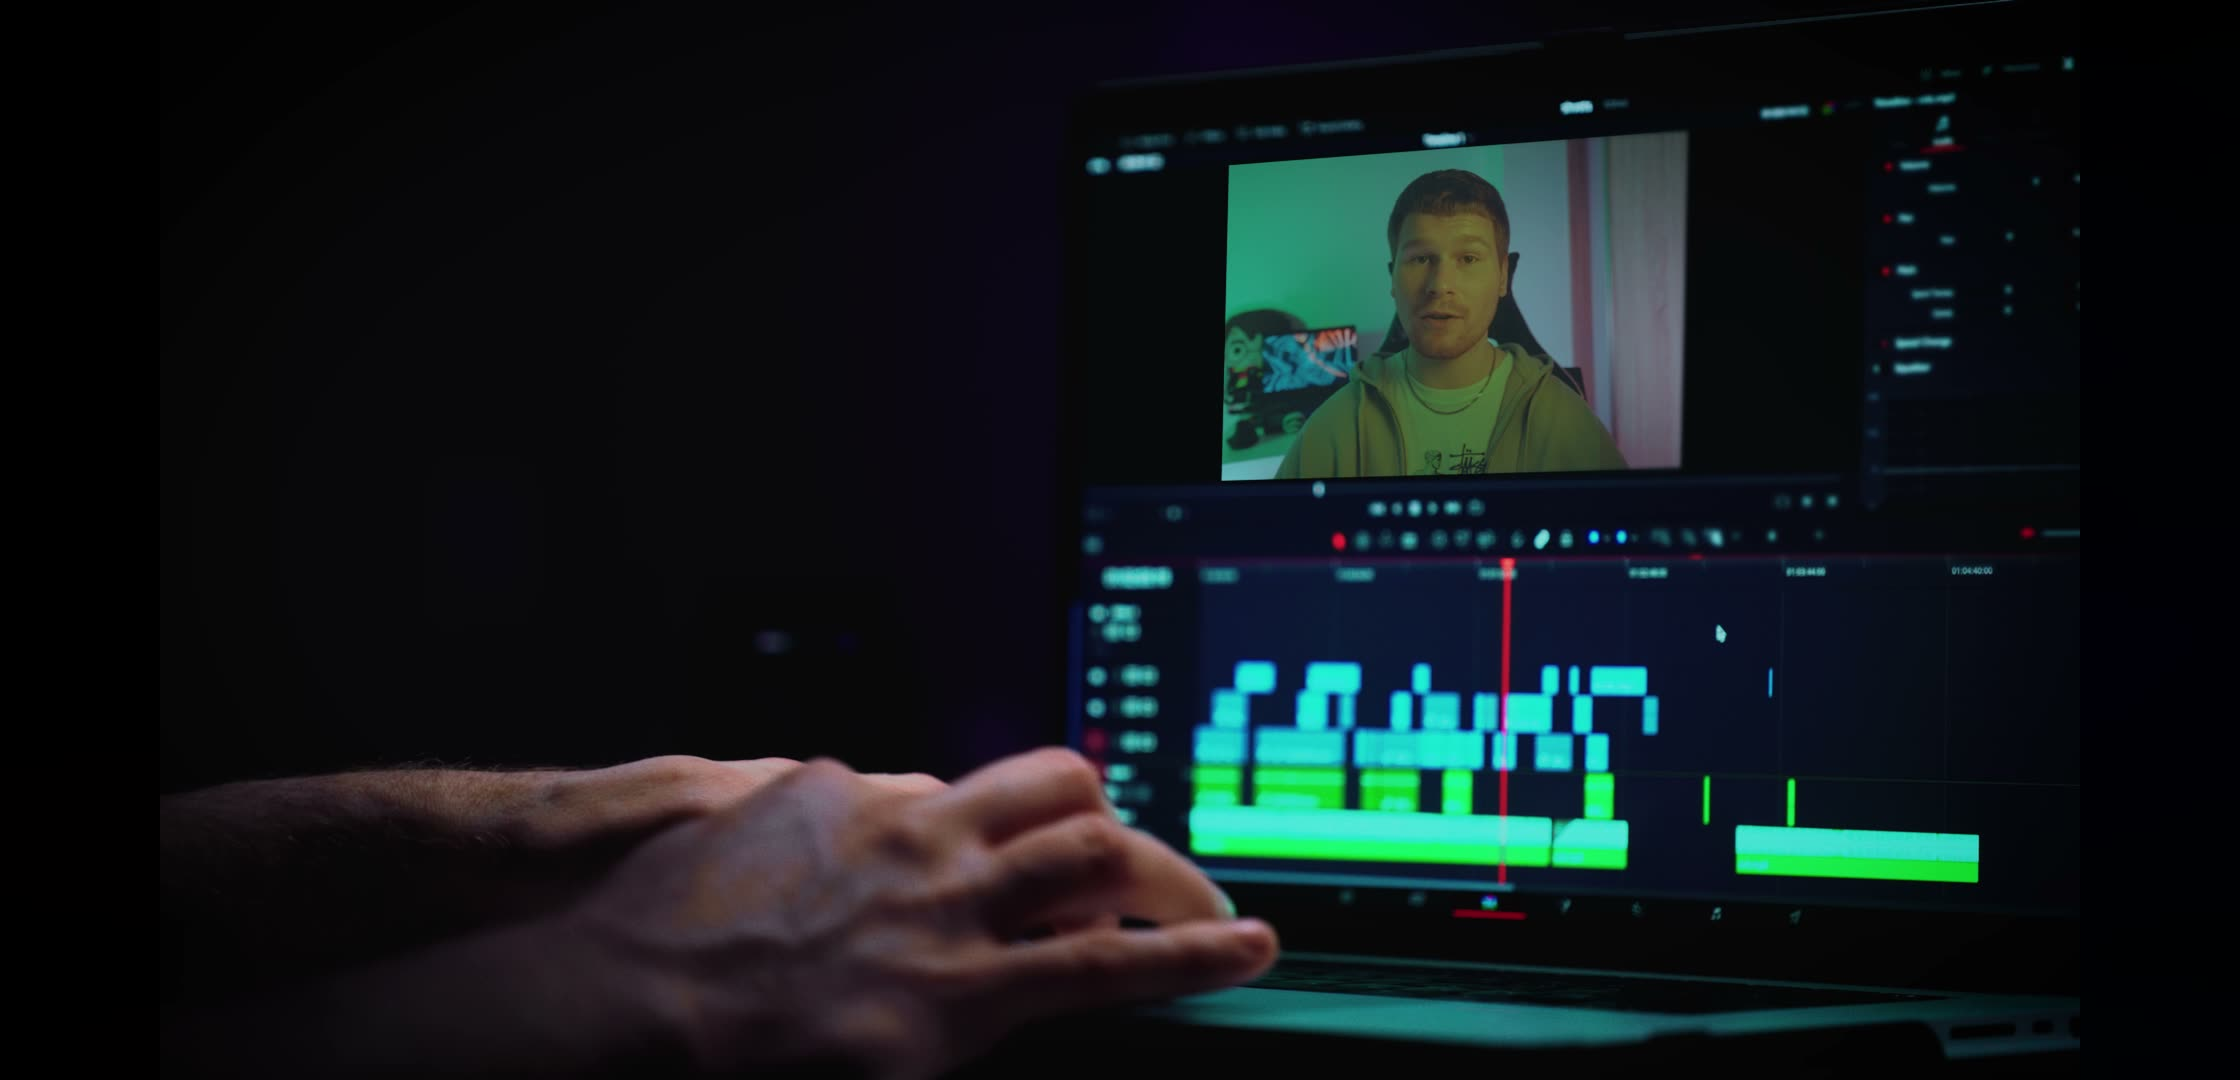
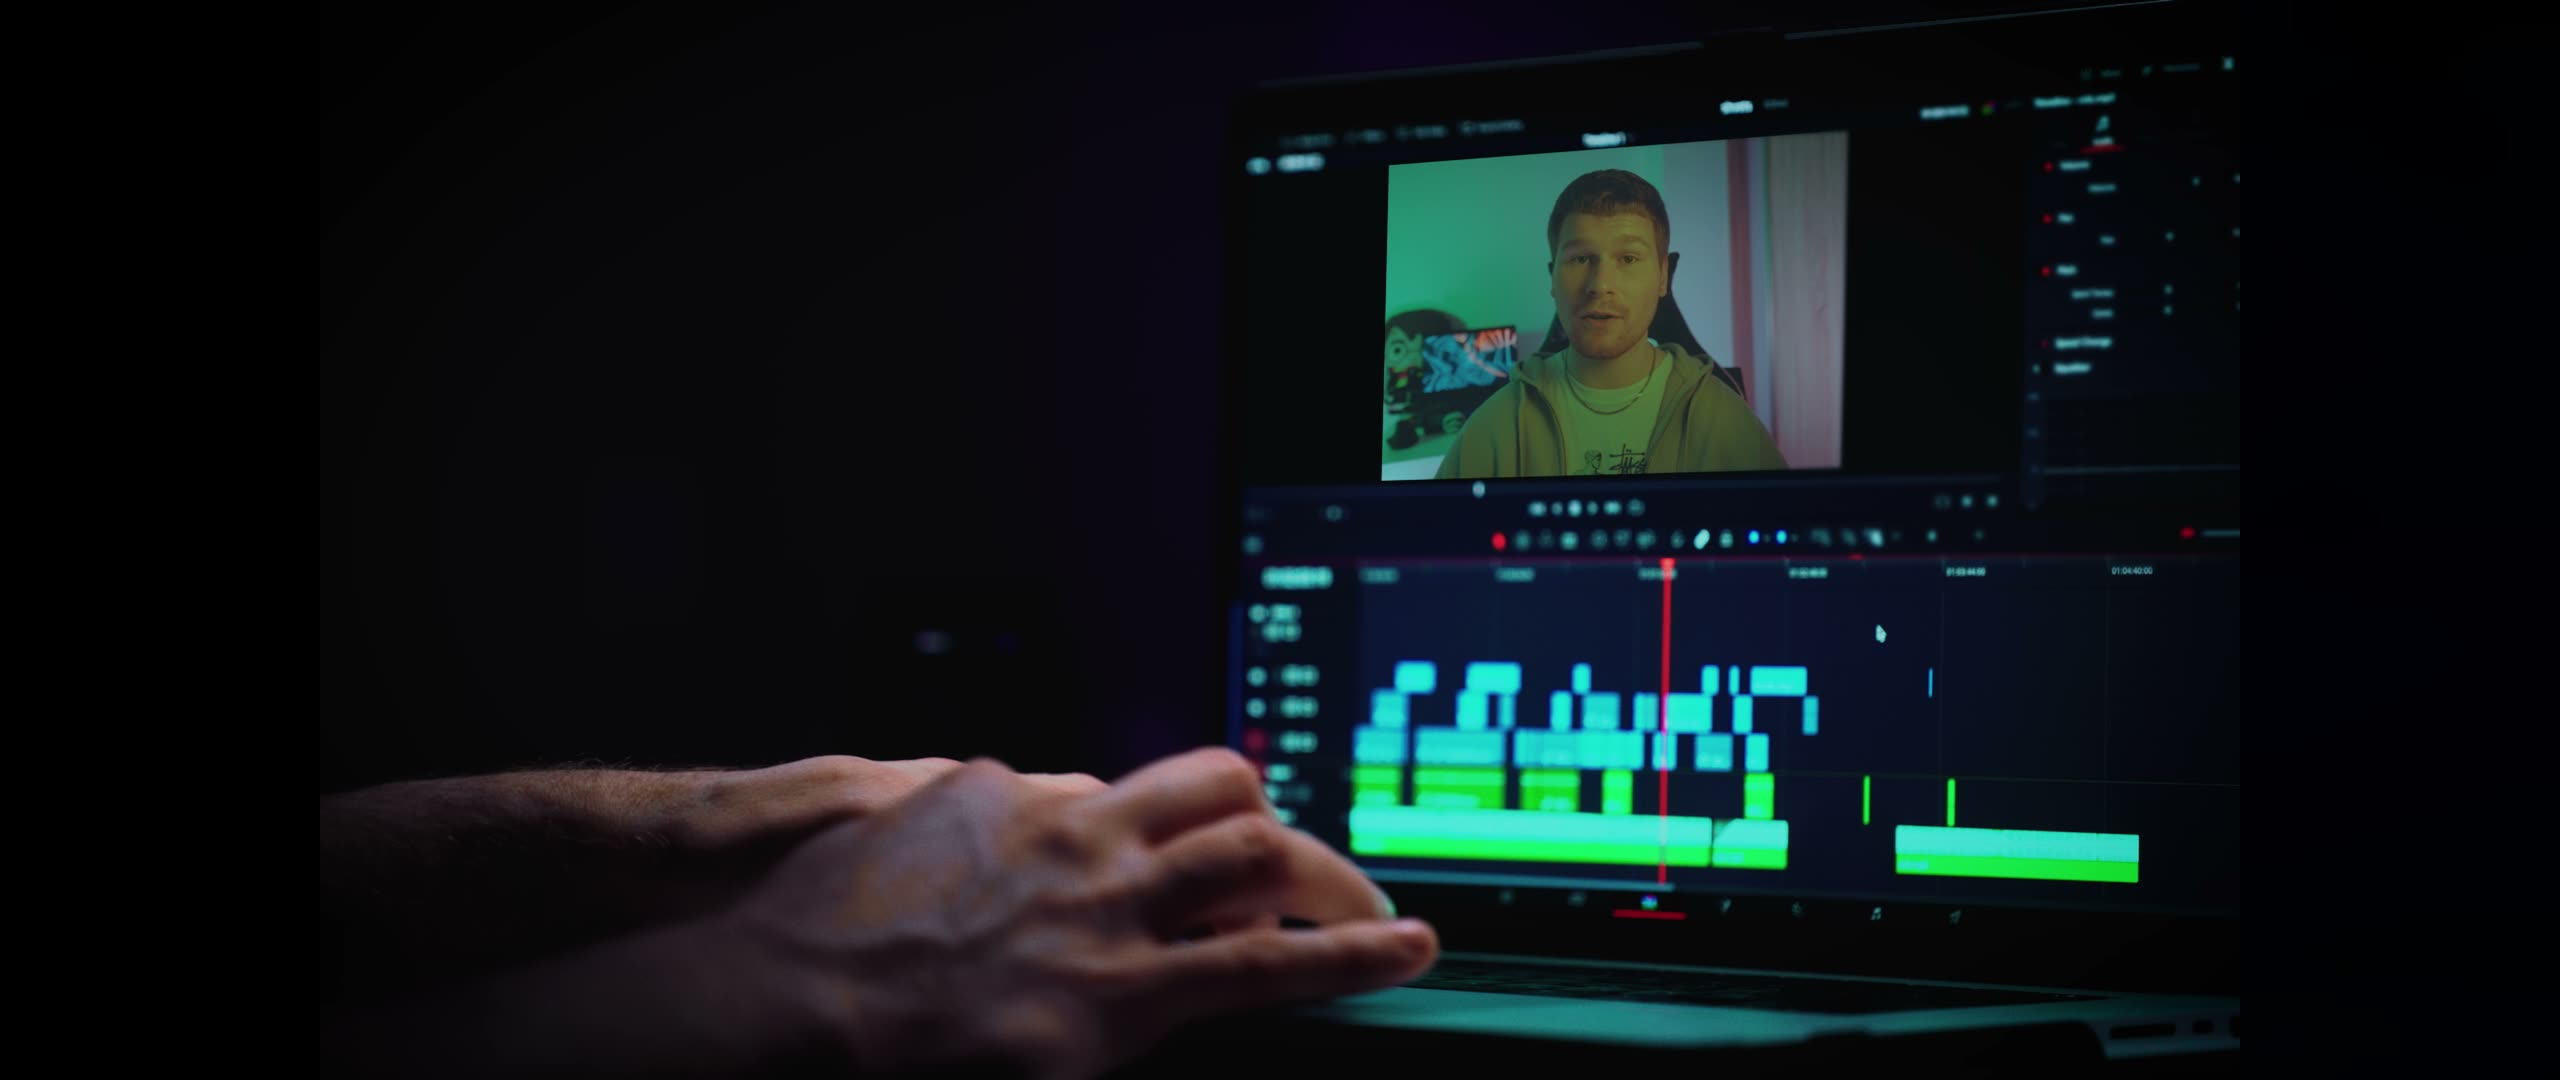
Компьютер: кадр отодвинут ещё
Захар: «я бы ещё чуть больше». Холст с 2240 до 2560×1080 — по 320 px
размытой растяжки с каждой стороны вместо 160. На экране 1920 масштаб
падает с 0,857 до 0,75, сцена целиком, лицо ещё меньше.

Окно на ноутбуке 1440 опущено с 8% до 0%: чем шире холст, тем мельче
картинка в контейнере и тем выше в нём голова — на 8% макушка снова
доставала до плавающей шапки.

Claude-Session: https://claude.ai/code/session_01TK2PBrYq9msPrCxx3Ne5Jh

diff --git a/index.html b/index.html
@@ -3278,7 +3278,7 @@
 
 <style data-kadr-pc>
   @media (min-width: 900px) and (max-width: 1499px) {
-    #hero .pg-foto { object-position: 50% 8%; }
+    #hero .pg-foto { object-position: 50% 0%; }
   }
 </style>
 </head>
@@ -3350,7 +3350,7 @@
 <!-- HERO -->
 <section id="hero" class="pg-hero">
   <div class="pg-gora">
-    <picture><source media="(max-width: 700px)" srcset="hero_montaz_tel.jpg" width="1400" height="2060"><img width="2240" height="1080" class="pg-foto" src="hero_montaz.jpg" alt="Montaż rolki: oś czasu na ekranie" fetchpriority="high"></picture>
+    <picture><source media="(max-width: 700px)" srcset="hero_montaz_tel.jpg" width="1400" height="2060"><img width="2560" height="1080" class="pg-foto" src="hero_montaz.jpg" alt="Montaż rolki: oś czasu na ekranie" fetchpriority="high"></picture>
     <div class="pg-cien"></div>
     <div class="pg-tresc">
       <div class="pg-eyebrow" data-k="hero_tagn">AGENCJA KREATYWNA · KATOWICE</div>
